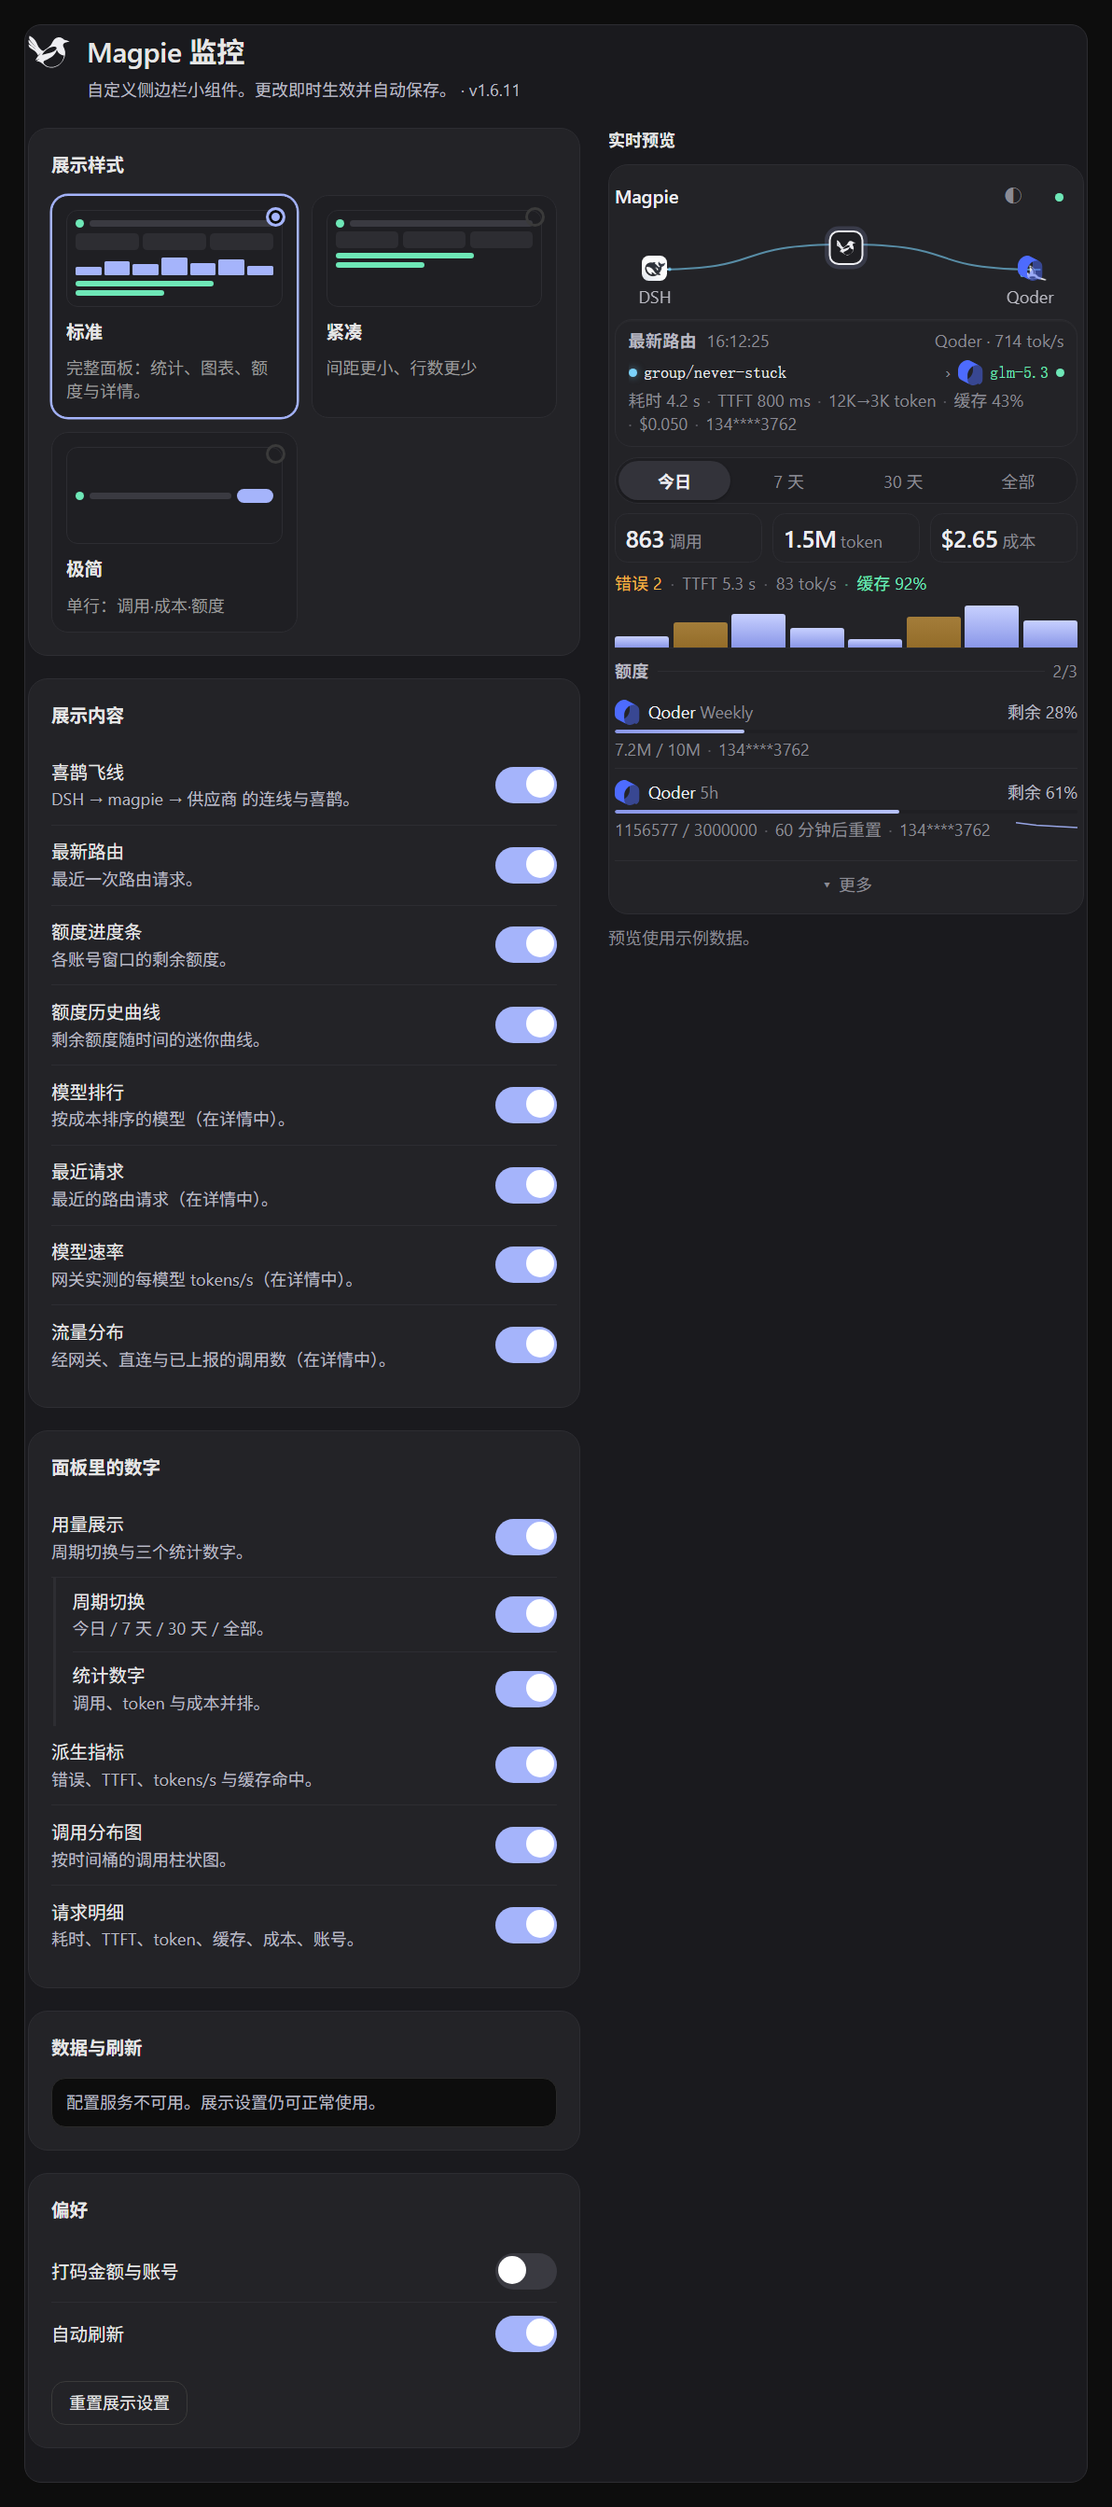
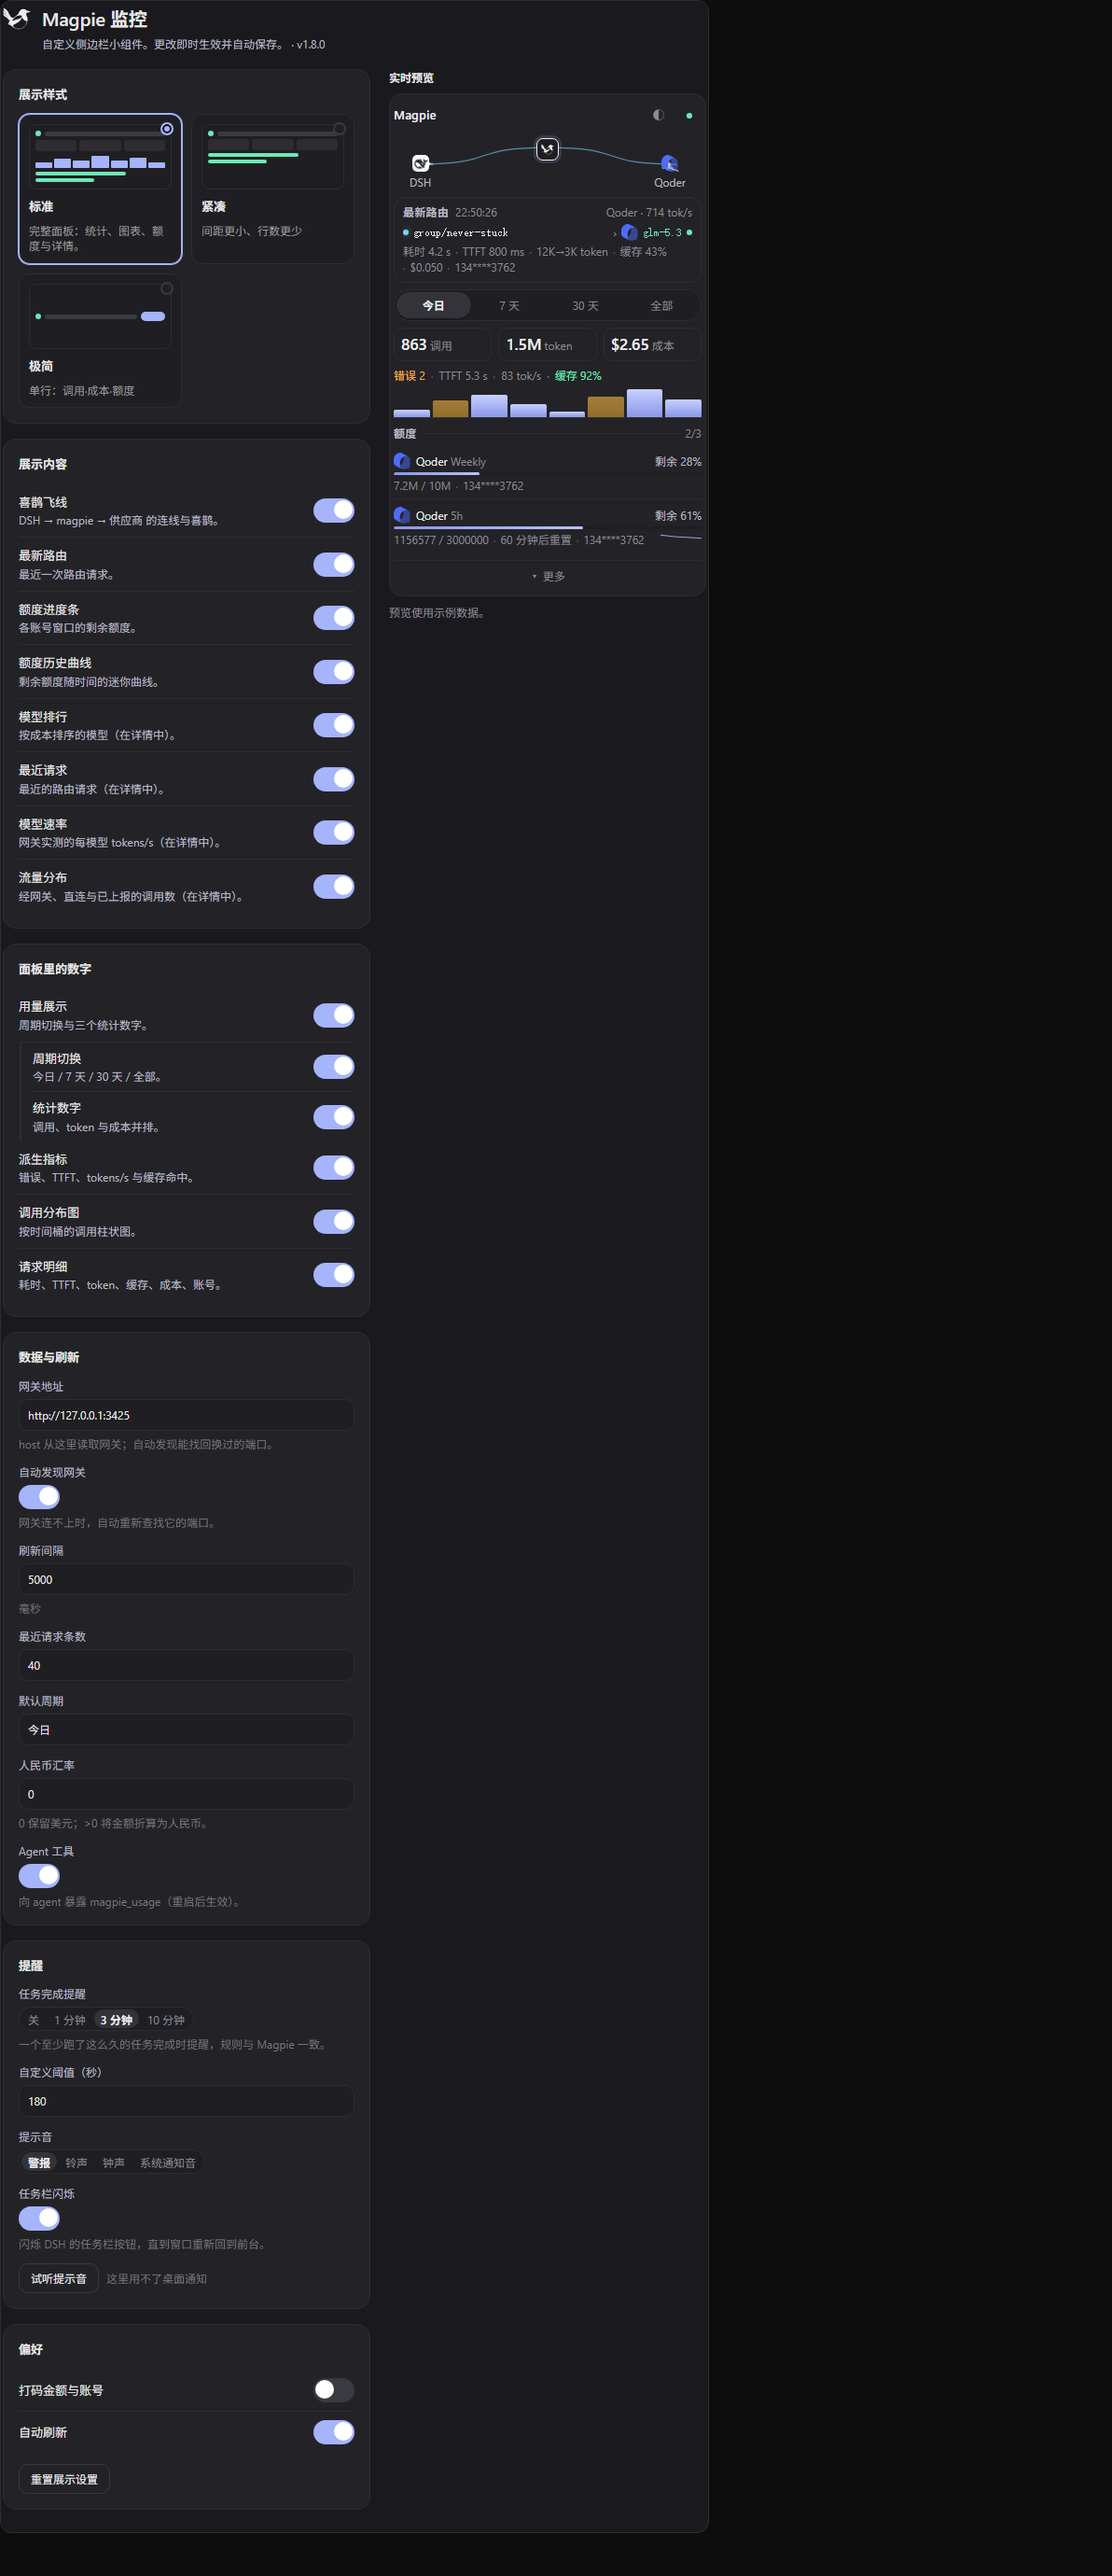
docs: settings screenshot with the Alerts card, README for the task done alert

diff --git a/README.md b/README.md
@@ -10,7 +10,7 @@
 > matter, model speed and the harness → gateway → provider flight strip — in
 > one footer widget that stays out of the way.
 >
-> Package `@local/dsh-magpie-monitor` · v1.6.11 · MIT · Node.js >= 22 · read-only
+> Package `@local/dsh-magpie-monitor` · v1.8.0 · MIT · Node.js >= 22 · read-only
 
 <p align="center">
   <picture>
@@ -32,6 +32,7 @@ Rendered from the shipped <code>client.js</code> by <code>tools/preview.mjs</cod
 | **Quotas** | the most-used subscription windows as `provider · window … remaining %`, a 3 px track, `used / limit`, the reset countdown and the account |
 | **Speed & split** | per-model throughput as the gateway measured it, and how many calls went *through* the gateway, *direct* or were *reported* upstream |
 | **Display** | three styles (standard / compact / minimal), nine individual blocks, mask amounts and accounts, pause the refresh |
+| **Task done alert** | when a task that ran past your threshold finishes: a louder system sound of your choosing (alarm / ring / bell / chime) and the DSH taskbar button blinks until you come back — Magpie’s own rule, Magpie’s own sound |
 
 **Quick start**
 
@@ -156,13 +157,15 @@ default); the dashboard may be a few seconds ahead or scoped differently.
 ## Architecture
 
 The Magpie gateway (`http://127.0.0.1:3425` by default) sends no CORS headers,
-so the browser cannot call it directly. The host half registers three read-only
-routes on the DSH web server:
+so the browser cannot call it directly. The host half registers four read-only
+routes on the DSH web server plus the one effect the alert needs:
 
 | Route | Purpose |
 | --- | --- |
 | `GET /magpie-monitor/api/config` | Effective settings + resolved currency |
 | `GET /magpie-monitor/api/data?path=<key>` | Proxy one whitelisted upstream payload (`root`, `usage`, `requests`, `quotas`, `history`, `statusline`, `route`, `trace`, `models`) |
+| `GET /magpie-monitor/api/alert-sound[?tone=]` | The system wav for one alert tone (`alarm` / `ring` / `bell` / `chime`, default from config), served as `audio/wav` so the browser can play it |
+| `POST /magpie-monitor/api/alert-flash` | Blinks the DSH taskbar button (`FlashWindowEx` through one fixed PowerShell helper); `{flashed, code}` says whether it did |
 | `GET /magpie-monitor/api/snapshot?period&recent[&fresh=1]` | One merged, trimmed snapshot (health + usage + series + quotas + history + models + requests + speeds + channels + problems) so the client makes a single request per cycle |
 
 Query parameters are forwarded **per endpoint**, not from one flat allow-list:
@@ -215,9 +218,68 @@ the very next attempt.
 | `cnyRate` | `0` | USD→CNY rate; `0` keeps USD, `>0` converts every money figure once |
 | `discover` | `true` | Re-discover the gateway port from `~/.config/magpie/gateway.json` when the configured base refuses connections |
 | `tool` | `true` | Register the `magpie_usage` agent tool (read at apply; restart to change) |
+| `turnDoneAlert` | `0` | Ring when a task that ran at least this many seconds finishes; `0` is off. Same field, range and presets as the Magpie *Task done alert* (1 / 3 / 10 min, 0–86400 s) |
+| `alertTone` | `alarm` | Which system sound to ring: `alarm` (`Alarm01.wav`, 5.6 s), `ring` (`Ring05.wav`), `bell` (`Windows Notify Calendar.wav`) or `chime` (Magpie’s own `Notification.Default` wav, 1.3 s) |
+| `alertFlash` | `true` | Blink the DSH taskbar button when the alert fires; the sound plays either way |
 
 All keys are live-updatable (`.volatile()`); the host unwraps `{get()}`
 references before use.
+
+## Task done alert
+
+Magpie rings when a long agent task finishes. This plugin does the same, with
+Magpie's rule and Magpie's sound, so the two behave alike instead of each
+inventing a notification.
+
+- **The rule.** Magpie stores it as `turnDoneAlert`: a task that ran at least
+  that many seconds earns a notification, `0` turns the feature off, and its
+  settings offer 1, 3 and 10 minutes while still accepting any other value. The
+  host keeps the same field name and the same range (0–86400 s, `0` off), and the
+  settings card offers the same three presets plus a seconds field, so a value
+  copied from Magpie means the same thing here.
+- **What counts as a task.** A DSH session row going from `running` to idle in
+  the client `sessions` store. The widget watches `ctx.sessions.list` through
+  `ctx.inject(['sessions'], ...)`, so the plugin still mounts when that service is
+  absent, and it stamps the first cycle that sees a row running; on the flip it
+  compares the span with the threshold. Child sessions (`parentId`) are skipped —
+  the parent is the task that was actually running. A session already running
+  when the panel starts is timed from the first cycle it is seen, which is the
+  closest a browser-side observer can get to the turn's real start.
+- **The sound.** Magpie sends a Windows toast, and a toast plays the system
+  `Notification.Default` event sound — `Windows Notify System Generic.wav`,
+  1.3 s, and the quietest part of the notification set. `chime` keeps exactly
+  that (same file, same placement); the other three tones are louder and longer
+  system sounds, `alarm` by default because Magpie’s own chime is easy to miss.
+  Measured here (RMS / peak / length): `Windows Background` −23.4 dBFS / −9.2 /
+  1.29 s, `Alarm01` −24.5 / −9.2 / 5.57 s, `Notification.Default` −24.7 / −9.8 /
+  1.29 s, `Alarm02` −25.7 / −11.9 / 3.75 s, `Ring02` −29.3 / −10.3 / 3.56 s.
+  Volume alone was already near the ceiling, so the louder impression comes from
+  length and pattern, not gain.
+  Each tone lists its files in order (e.g. `alarm` is `Alarm01`, then `Alarm02`,
+  then `Alarm03`), and every tone falls back to the chime files, so a stripped
+  `Media` folder still rings something. The host reads each file once, checks
+  the `RIFF` header and the length, and caches it per tone in a `Map`; the route
+  takes `?tone=` from the allow-list only (anything else is the configured
+  tone) and caps the response at `max-age=86400`. Point
+  `MAGPIE_MONITOR_ALERT_WAV` at another wav to override every tone.
+- **The blink.** A browser cannot blink its own taskbar button, and the DSH
+  desktop shell exposes no window channel to a plugin page (its preload bridges
+  directories, paths and locale only, and the desktop host runs the harness in a
+  child process that the main process answers with `ready` alone). So the host
+  spawns `tools/flash-taskbar.ps1` once per alert: it walks up from `$PID` to
+  the first ancestor that owns a `MainWindowHandle` and calls `user32`
+  `FlashWindowEx` with `FLASHW_ALL | FLASHW_TIMERNOFG`, so the button flashes
+  until the window is focused. Nothing from the request reaches the argument
+  list, there is no shell, and `windowsHide` keeps a console from appearing;
+  the child is unref’d and killed after 15 s at the latest, and repeat alerts
+  inside 1.5 s are throttled to one blink. Off Windows the route answers
+  `{flashed: false, code: 'unsupported'}` and the sound is unaffected.
+
+- **The notification.** The client asks for browser notification permission once
+  and the settings card owns that button plus the state it is in. Granted, the
+  banner reads *`{session} finished` / `Ran for 3 minutes`* and is silent, so it
+  never rings the sound a second time; without permission the same line appears
+  as an in-page toast for six seconds. The sound plays either way.
 
 ## Agent tool
 
@@ -380,8 +442,14 @@ Both render the same `MagpieSettings` component:
 - **Live preview** — the right column renders the *same* `MagpieBody` presenter
   the footer uses, fed by a fixed `SAMPLE_SNAPSHOT`, so every style/toggle change
   is reflected immediately without a fetch or iframe.
+- **Alerts** — Magpie's *Task done alert* threshold (`off` / `1 min` / `3 min` /
+  `10 min`, or any number of seconds), the tone (`alarm` / `ring` / `bell` /
+  `chime`, each disabled when this machine lacks its wavs, and picking one
+  previews it), a *taskbar blink* switch, a button that plays the chosen sound on
+  demand, the browser notification permission with its request button, and an
+  inline note when a play attempt finds no sound on this machine.
 - **Host configuration** — `gatewayUrl`, `refreshMs`, `requestLimit`, `cnyRate`,
-  default `period`, `discover` and `tool` are edited through the client
+  default `period`, `turnDoneAlert`, `alertTone`, `alertFlash`, `discover` and `tool` are edited through the client
   `configForms` service (namespace `magpie-monitor`), persisted host-side via
   `remote.settings.mutate`. Numeric fields commit on blur/Enter and are clamped
   to the host ranges; if the namespace is not served the form degrades to a
@@ -438,6 +506,18 @@ by the DSH profile (it is a peer dependency, not a bundled one).
 - **No secrets** — the host reads one file (the gateway's own `gateway.json`
   report, for the port) and forwards no credentials; the client only ever calls
   same-origin routes.
+- **One fixed script, no arguments from outside** — the host spawns exactly one
+  thing: `powershell.exe -NoProfile -NonInteractive -ExecutionPolicy Bypass
+  -WindowStyle Hidden -File <plugin>/tools/flash-taskbar.ps1`, with
+  `windowsHide`, no `shell`, and no value that came from a request. The
+  invariant test counts the `spawn(` call sites, requires the `.ps1` literal and
+  bans `shell: true` and `process.argv`. Everything else the alert needs is a
+  `readFileSync` of a known wav path with a `RIFF` check and a cached buffer,
+  behind the same same-machine gate as every other route.
+- **The alert never fails loudly and never fails silently** — no wav on this
+  machine answers `404 {code: 'no_sound'}` and the settings card says so on the
+  first play attempt; a blink that is switched off, throttled or unsupported
+  answers `200 {flashed: false, code}` so the client can keep the sound.
 - **Bounded detail reads** — `/api/data` aborts its upstream fetch when the panel
   closes the request, and refuses an endpoint that needs a parameter (`route`,
   `trace` need `session`) with a `400` instead of forwarding an empty query.
@@ -477,7 +557,7 @@ npm test
 
 (equivalently: `node --experimental-vm-modules --test --test-force-exit "test/*.test.js"`)
 
-91 tests: host integration (real `index.js` in a `vm` module with a stubbed
+98 tests: host integration (real `index.js` in a `vm` module with a stubbed
 schemastery, fake webServer/tools and mock fetch — including the same-machine
 gate, per-endpoint query rules, failure classification, port discovery and the
 "HTTP errors are not retried elsewhere" rule, in-flight read sharing, the
@@ -488,7 +568,13 @@ style selection, content toggles, reset, host config editing via a fake
 `configForms`, footer/settings shared state, the merged status control's
 live/paused/compact behaviour, speeds/channels readouts, translated problems,
 the failure backoff curve and the rail popup's open/Escape cycle), and
-source-level invariants (negative regexes for eval/innerHTML/external URLs/
+the task done alert (a three-minute task rings once with the configured tone and
+asks for one blink, a short one stays silent, a child session is skipped,
+`alertFlash: false` still rings, and `turnDoneAlert: 0` disables everything),
+the alert routes themselves (a tone picks its own wav, an unknown tone falls
+back to the configured one, the blink is POST-only behind the trust gate,
+spawns the helper with `windowsHide` and no shell, throttles a second call, and
+`alertFlash: false` answers `off` without spawning), source-level invariants (negative regexes for eval/innerHTML/external URLs/
 secrets, whitelist guards, single refresh affordance, 12px type floor, trust
 gate, failure-code contract, portal usage, manifest shape), and layout (the wire
 is rebuilt from the measured strip at 260/320/480 and from the measured marks
